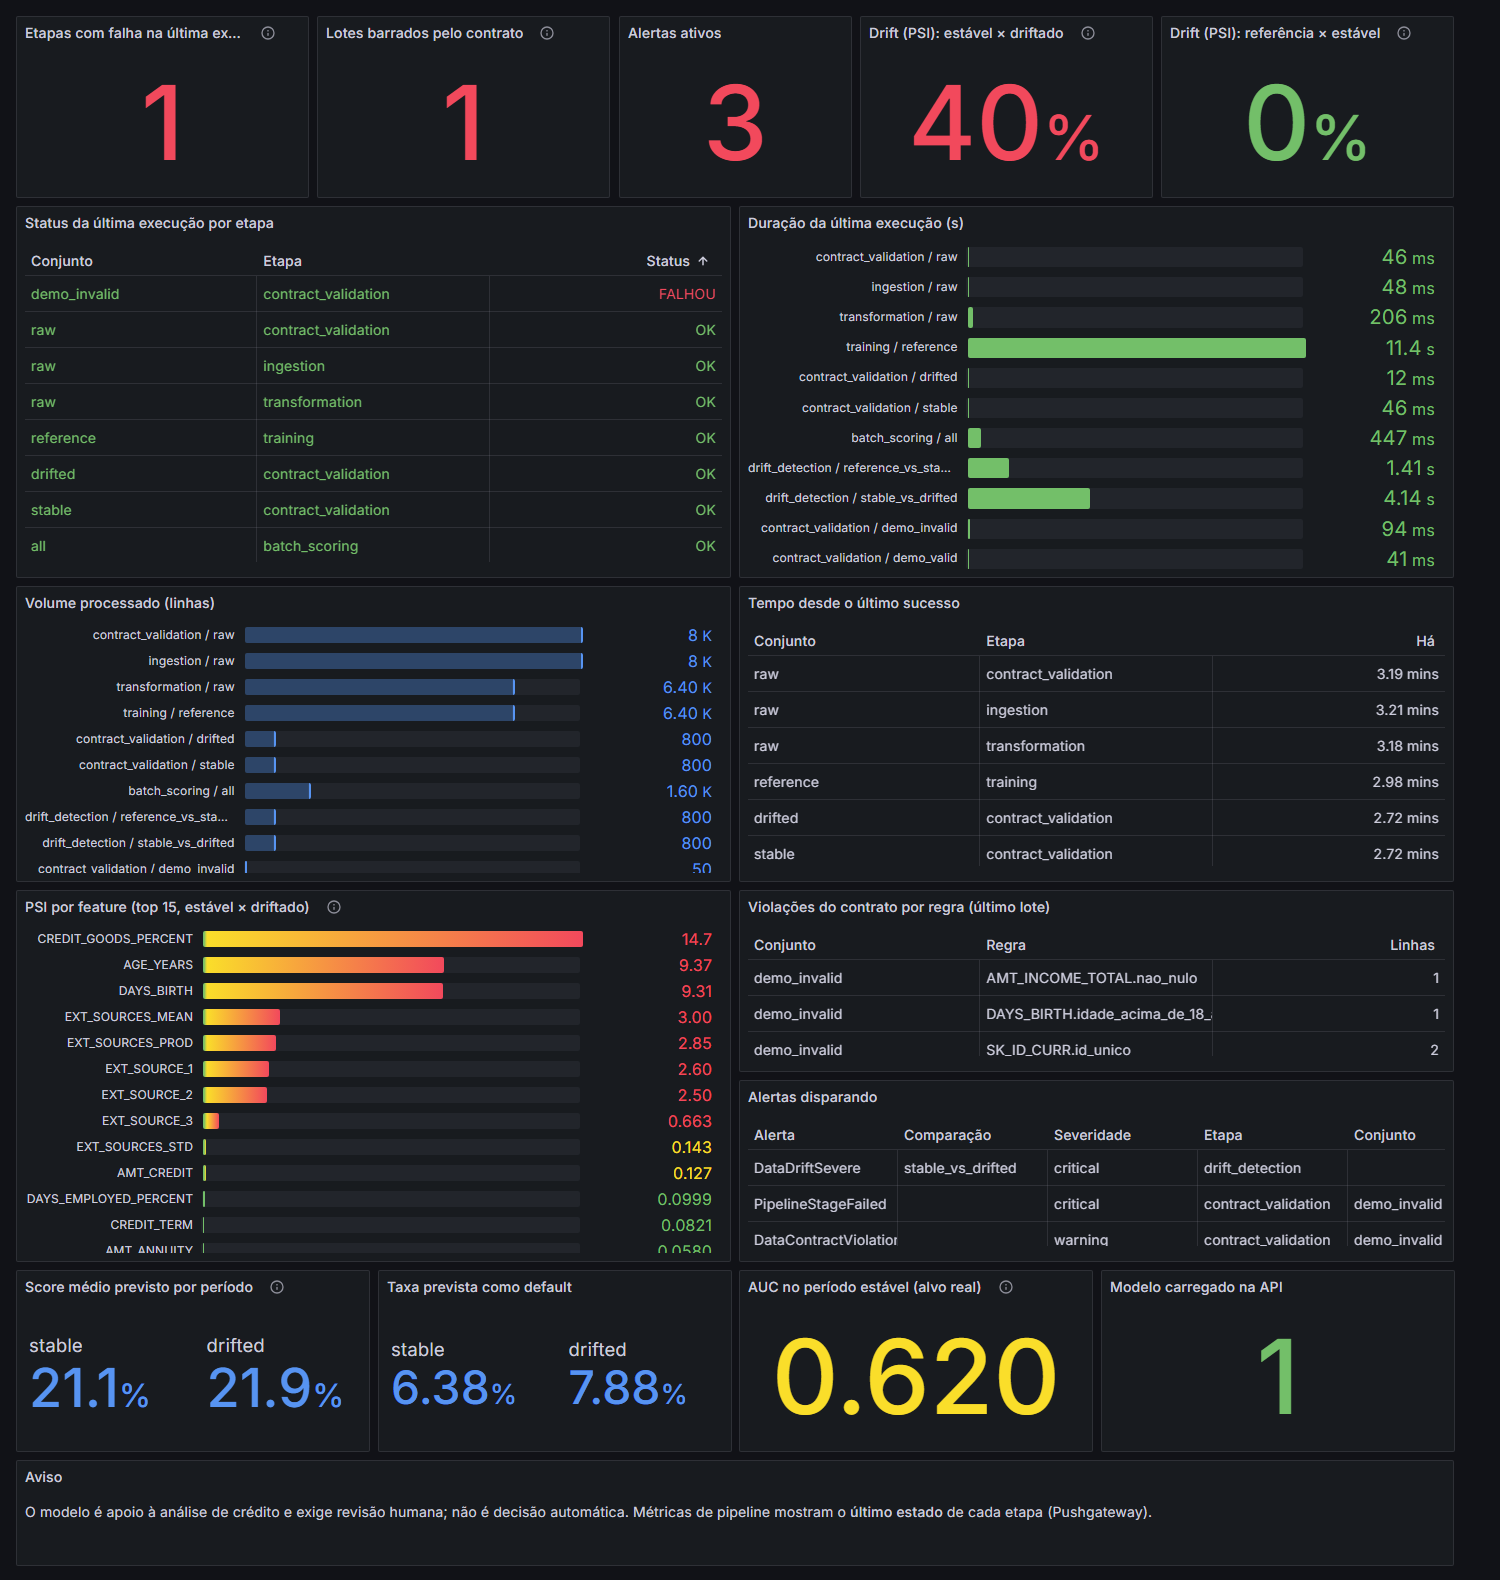
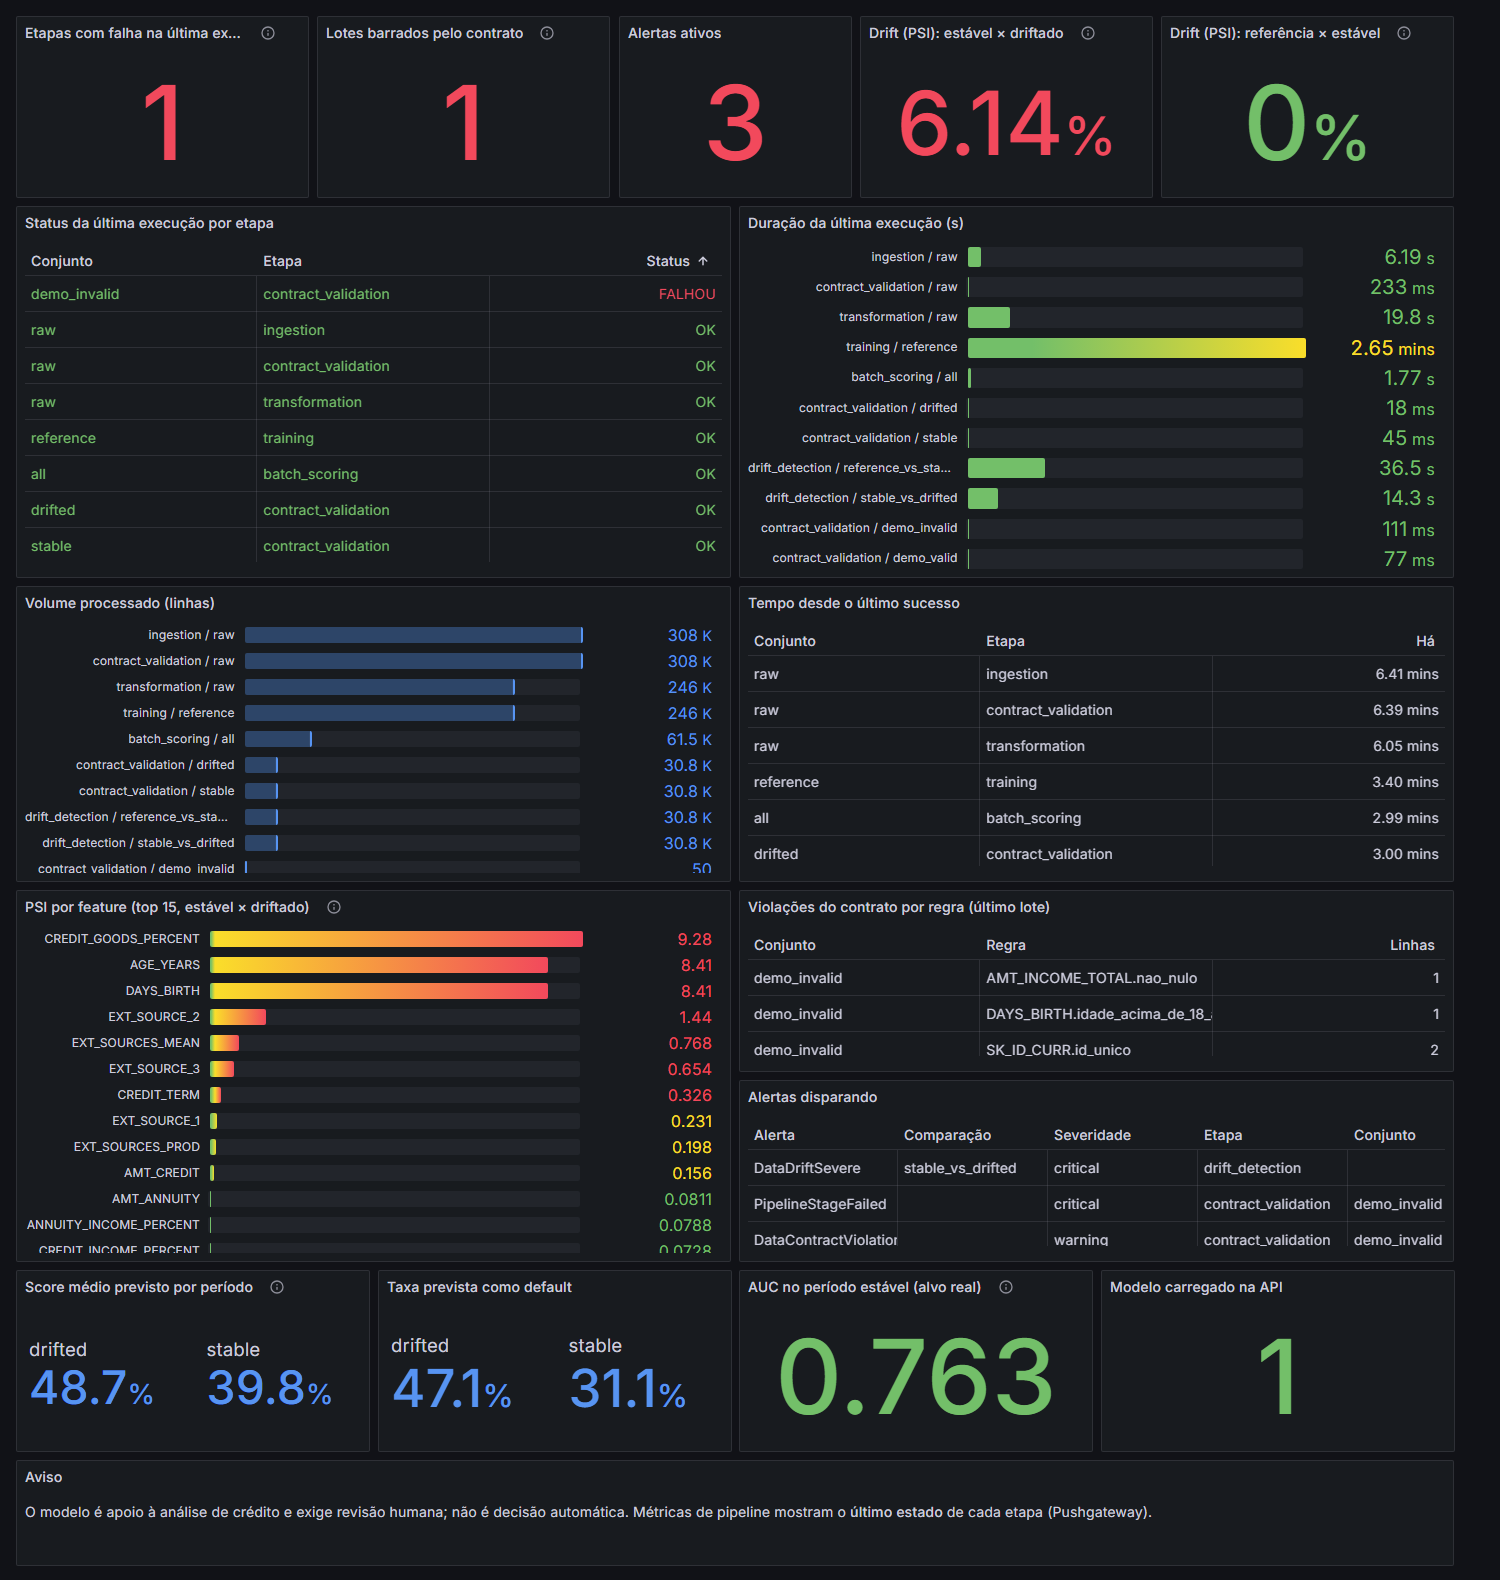
docs: resultados da execução com o CSV real e aviso sobre alvo sintético
Calibração dos limiares com o dado real (baseline 0%, driftado 6,14%), conferência do HTML do Evidently, aviso nos gráficos do período 2 e relatório atualizado com novas capturas.

diff --git a/docs/demo/relatorio-etapa3.html b/docs/demo/relatorio-etapa3.html
@@ -52,11 +52,11 @@
     <div class="grid g4">
       <div class="card"><div class="stat">144<small>testes automáticos passando (antes eram 77)</small></div></div>
       <div class="card"><div class="stat">92%<small>do código de <code>src/</code> coberto pelos testes</small></div></div>
-      <div class="card"><div class="stat">3 de 3<small>bloqueios 🔴 resolvidos</small></div></div>
+      <div class="card"><div class="stat">4 de 4<small>bloqueios resolvidos, inclusive o CSV real</small></div></div>
       <div class="card"><div class="stat">9<small>commits semânticos novos</small></div></div>
     </div>
     <p style="margin-top:16px">Em palavras simples: agora o projeto <b>barra dados ruins antes do modelo</b>, <b>pontua os dados de produção</b>, <b>registra o que cada etapa do pipeline fez</b>, <b>mostra tudo em painéis</b> e <b>dispara alertas</b> quando um lote é barrado, uma etapa falha ou os dados mudam demais (drift).</p>
-    <div class="note"><b>Importante:</b> tudo foi validado com <b>dados sintéticos</b> (inventados, só para teste), porque o CSV real do Kaggle não está no seu computador. Antes de entregar, rode com o CSV real e confira os limiares de alerta.</div>
+    <div class="note"><b>Dado real:</b> depois dos testes com dados sintéticos, rodei o pipeline inteiro com o <b>CSV real do Kaggle</b> (307.511 clientes) nos containers. O contrato aceitou o arquivo, o modelo treinou e os alertas se comportaram como esperado. Os resultados estão na seção 5.</div>
   </section>
 
   <section>
@@ -69,7 +69,9 @@
         <tr><td><b>Predições em lote</b> (Etapa 2)</td><td>Pendente</td><td><code>make predict</code> pontua o período estável e o driftado com o mesmo modelo da API.</td></tr>
         <tr><td>MLflow fora do container</td><td>Não estava instalado no projeto</td><td>Novo serviço <code>drift</code> no Docker reaproveita a imagem do treino.</td></tr>
         <tr><td>Comparar com a referência do treino</td><td>O relatório só comparava período 1 × 2</td><td>Também compara <b>referência × período estável</b>, que não deve mostrar drift.</td></tr>
-        <tr><td>CSV do Kaggle ausente</td><td>Nada rodava de ponta a ponta</td><td><span class="tag part">PARCIAL</span> Validado com dados sintéticos; falta rodar com o CSV real.</td></tr>
+        <tr><td>CSV do Kaggle ausente</td><td>Nada rodava de ponta a ponta</td><td><span class="tag ok">RESOLVIDO</span> CSV real em <code>data/raw/</code> (fora do Git). Pipeline completo rodou com 307.511 linhas.</td></tr>
+        <tr><td>HTML do Evidently só com dados agregados?</td><td>Sem conferência</td><td><span class="tag ok">CONFERIDO</span> Só histogramas por coluna; sem ID nem alvo.</td></tr>
+        <tr><td>Gráficos do período 2 sem aviso de alvo sintético</td><td>Sem aviso</td><td><span class="tag ok">AVISO ADICIONADO</span> Nota no README na seção de drift.</td></tr>
       </tbody>
     </table>
   </section>
@@ -123,15 +125,34 @@
   </section>
 
   <section>
-    <h2>5 · Provas visuais</h2>
-    <p class="dim">Capturas da execução real da stack com dados sintéticos.</p>
+    <h2>5 · Execução com o CSV real</h2>
+    <div class="grid g4">
+      <div class="card"><div class="stat">307.511<small>clientes lidos; contrato aceitou sem falso positivo (0,2 s)</small></div></div>
+      <div class="card"><div class="stat">0,762<small>AUC do XGBoost (validação cruzada); regressão logística 0,748</small></div></div>
+      <div class="card"><div class="stat">0%<small>features com drift em referência × estável (<code>drift_max_psi</code> 0,0012)</small></div></div>
+      <div class="card"><div class="stat">6,14%<small>features com drift em estável × driftado (7 de 114): alerta crítico</small></div></div>
+    </div>
+    <table style="margin-top:14px">
+      <thead><tr><th>Verificação</th><th>Resultado</th></tr></thead>
+      <tbody>
+        <tr><td>Etapas do pipeline (container)</td><td>Ingestão 6 s, contrato 0,2 s, transformação 20 s, treino 2 min 39 s, predição 1,8 s, drift 36 s e 14 s. Todas com sucesso.</td></tr>
+        <tr><td>Predições em lote</td><td>Estável: 30.752 linhas, AUC 0,763, 31% previstos como default. Driftado: 30.751 linhas, 47% previstos como default (score médio de 0,40 para 0,49).</td></tr>
+        <tr><td>Lote real corrompido de propósito</td><td>Barrado. Contagens batem com o que injetei: 200 menores de idade, 150 rendas nulas, 50 créditos negativos, 11 linhas de ID repetido, 10 alvos inválidos.</td></tr>
+        <tr><td>Reprodutibilidade</td><td>O resumo de drift regenerado ficou igual ao versionado (só difere nos últimos dígitos decimais).</td></tr>
+        <tr><td>Alertas ativos no fim</td><td>3: <code>DataDriftSevere</code> (estável × driftado), mais <code>PipelineStageFailed</code> e <code>DataContractViolation</code> do lote inválido da demonstração.</td></tr>
+        <tr><td><code>run_id</code></td><td>Corrigido: no container de drift cada etapa tinha um <code>run_id</code> diferente; agora todas compartilham o mesmo.</td></tr>
+      </tbody>
+    </table>
+
+    <h2>6 · Provas visuais</h2>
+    <p class="dim">Capturas da execução da stack com o dado real.</p>
     <figure><img src="img/grafana-pipeline-health.png" alt="Painel do Grafana com status das etapas, drift por feature e alertas" /><figcaption>Painel de saúde do pipeline: etapas, duração, volume, drift por feature (PSI), violações do contrato, alertas e score do modelo.</figcaption></figure>
     <figure><img src="img/prometheus-alertas.png" alt="Página de alertas do Prometheus com três alertas disparando" /><figcaption>Alertas no Prometheus: 3 disparando (drift severo, etapa com falha e lote barrado) e 5 inativos.</figcaption></figure>
     <figure><img src="img/mlflow-runs.png" alt="MLflow com uma execução por etapa do pipeline" /><figcaption>MLflow: uma execução registrada por etapa do pipeline.</figcaption></figure>
   </section>
 
   <section>
-    <h2>6 · O que isso cobre do enunciado</h2>
+    <h2>7 · O que isso cobre do enunciado</h2>
     <table>
       <thead><tr><th>Item do enunciado</th><th>Situação</th><th>Onde está</th></tr></thead>
       <tbody>
@@ -165,13 +186,10 @@
   </section>
 
   <section>
-    <h2>7 · O que ainda falta ou merece atenção</h2>
+    <h2>8 · O que ainda falta ou merece atenção</h2>
     <ul>
-      <li><b>Rodar com o CSV real do Kaggle.</b> Tudo foi validado com dados sintéticos.</li>
-      <li><b>Conferir os limiares de alerta.</b> Hoje: aviso a 2% e crítico a 5% das features com PSI alto. Com o resumo real versionado, o cenário driftado dá 6,1%, perto do limite. Confirme que referência × estável fica abaixo de 2%.</li>
+      <li><b>Margem do alerta crítico é pequena.</b> O limiar é 5% (6 features); o cenário driftado tem 7. A linha de base ficou em 0%, então o aviso de 2% está seguro. Se mudar a intensidade da simulação, reavalie.</li>
       <li><b>Etapa 4:</b> LGPD, base legal, retenção e análise causal. O arquivo de eventos também precisa entrar no plano de retenção.</li>
-      <li><b>Rotular os gráficos do período 2</b> (<code>reports/*.png</code>) como "alvo sintético".</li>
-      <li><b>Conferir o HTML do Evidently versionado</b> para garantir que só tem agregados.</li>
       <li>Loki (logs em painel) não foi feito; ficou como opcional.</li>
       <li>Os alertas aparecem no Prometheus e no Grafana, mas não são enviados por e-mail ou Slack.</li>
       <li>Os 7 commits antigos fora do padrão continuam no histórico.</li>
@@ -181,7 +199,7 @@
   </section>
 
   <section>
-    <h2>8 · Como rodar</h2>
+    <h2>9 · Como rodar</h2>
 <pre>make install                         # dependências
 docker compose up -d --build         # API, Prometheus, Grafana, MLflow, Pushgateway
 make compose-pipeline                # treino + drift + predição + relatórios nos containers
@@ -195,7 +213,7 @@ make metrics-reset                   # limpa as métricas guardadas no Pushgatew
   </section>
 
   <section>
-    <h2>9 · Commits criados</h2>
+    <h2>10 · Commits criados</h2>
     <table>
       <thead><tr><th>Commit</th><th>O que entrega</th></tr></thead>
       <tbody>
@@ -210,7 +228,7 @@ make metrics-reset                   # limpa as métricas guardadas no Pushgatew
         <tr><td><code>docs</code></td><td>README, checklist, arquitetura e guia dos agentes atualizados</td></tr>
       </tbody>
     </table>
-    <p class="dim">Uma décima mudança, <code>docs(demo)</code>, adiciona este relatório e as capturas de tela.</p>
+    <p class="dim">Mais dois commits: <code>docs(demo)</code> (este relatório e as capturas) e <code>fix</code>/<code>docs</code> com os ajustes feitos depois da execução real (<code>run_id</code> único no container de drift e resultados com o dado real).</p>
   </section>
 
   <footer>Arquivos: <code>docs/demo/relatorio-etapa3.html</code> · <code>docs/adr/0001-observabilidade-pipeline-e-modelo.md</code> · <code>docs/metricas_saude.md</code></footer>

diff --git a/docs/etapa3-diagnostico-e-plano.md b/docs/etapa3-diagnostico-e-plano.md
@@ -146,16 +146,16 @@ Reabrir qualquer item só se a execução real com o CSV contradisser a premissa
 | 🔴 Contrato Pandera vazio | Resolvido | `src/data/contracts.py`: 5 colunas, 6 regras de negócio nomeadas mais nulos, tipos e colunas; barra o lote na ingestão e na predição |
 | 🔴 Lote inválido bloqueado | Resolvido | `make contract-demo` e teste de ponta a ponta (treino não roda se o contrato falha) |
 | 🔴 Predições em lote | Resolvido | `src/drift/predict_batch.py` + `make predict`; AUC só no período estável |
-| 🟠 CSV do Kaggle ausente | **Aberto** | Validado com dados sintéticos (testes e stack Docker); falta rodar com o CSV real |
+| 🟠 CSV do Kaggle ausente | Resolvido | CSV real em `data/raw/` (fora do Git); pipeline completo rodou nos containers com 307.511 linhas |
 | 🟠 `mlflow` fora do Poetry | Resolvido | Serviço `drift` no compose reaproveita a imagem `train` |
 | 🟡 Referência × estável | Resolvido | `make report` gera os dois relatórios; baseline sem drift nos testes |
-| 🟡 Limiar crítico | Resolvido | 2% e 5%; recalibrar com o CSV real |
+| 🟡 Limiar crítico | Resolvido | 2% e 5% confirmados com o dado real: baseline 0%, driftado 6,14% |
 | 🟡 Pushgateway e contadores | Resolvido | Só gauges do último estado |
 | 🟡 Compose, `.gitignore`, portas | Resolvido | Pushgateway em `127.0.0.1`, `alerts.yml` montado, `logs/` e `*.jsonl` ignorados |
 | 🟡 Teste de coerência | Resolvido | `tests/test_monitoring_assets.py` |
 | 🟡 Cenários para o vídeo | Resolvido | `make demo-observability` (o vídeo em si não faz parte desta entrega) |
 | 🟡 Docs desatualizados | Resolvido | README, checklist, `AGENTS.md`, `architecture.md`, `metricas_saude.md` |
 | 🟡 Commits fora do padrão | Mantido | Decisão: não reescrever; novos commits seguem o padrão |
-| 🟡 Gráficos do período 2 sem aviso de alvo sintético | **Aberto** | Rotular em `reports/` e no README antes da entrega final |
-| 🟡 HTML do Evidently só com agregados | **Aberto** | Conferir com o CSV real |
+| 🟡 Gráficos do período 2 sem aviso de alvo sintético | Resolvido | Aviso no README, junto da seção de drift (os PNGs vêm do notebook e não foram alterados) |
+| 🟡 HTML do Evidently só com agregados | Resolvido | Conferido: só bordas e densidades de histograma por coluna; sem `SK_ID_CURR` nem `TARGET` |
 | Etapa 4 (LGPD) e vídeo STAR | **Aberto** | Fora do escopo desta entrega |

diff --git a/README.md b/README.md
@@ -171,6 +171,11 @@ do período 2 é sintético. Os artefatos ficam em `reports/`:
 - `data_drift_summary.csv`: resultados por feature, com KS e PSI para colunas
   numéricas e qui-quadrado para categóricas, estatística, limiar e decisão.
 
+> **Aviso sobre os gráficos `reports/xgboost_*_prod1_vs_prod2.png`.** Eles vêm
+> do notebook de avaliação e comparam desempenho no período 2 usando o alvo
+> **sintético**. Descrevem a regra de simulação, não desempenho real em
+> produção.
+
 `make report` também gera a comparação de sanidade **referência de treino ×
 período 1 estável** (`reports/data_drift_reference_vs_stable.*`), que não deve
 indicar drift e serve de linha de base para calibrar os alertas.
@@ -216,6 +221,11 @@ docker compose up -d --build     # API, Prometheus, Grafana, MLflow, Pushgateway
 make compose-pipeline            # treino + drift + predição + relatórios nos containers
 make demo-observability          # cenários: estável (sem alerta), driftado, lote inválido
 ```
+
+Execução de referência com o dado real (307.511 linhas): contrato aceitou o
+arquivo; AUC de validação cruzada 0,762 (XGBoost); referência × estável sem
+drift (`drift_share` 0%); estável × driftado com 7 de 114 features em PSI ≥ 0,25
+(6,14%), o que dispara o alerta crítico `DataDriftSevere`.
 
 Sem Docker, rode `PUSHGATEWAY_URL=http://localhost:9091 make pipeline`
 (executa tudo sob um único `run_id`). Sem `PUSHGATEWAY_URL` ou

diff --git a/docs/metricas_saude.md b/docs/metricas_saude.md
@@ -123,12 +123,14 @@ Os limiares de drift ficam em `config/config.yaml` (`observability.drift_*`) e
 um teste garante que a regra e o config permanecem iguais. A mesma lógica gera
 o evento `alert_raised` no log.
 
-**Calibração.** Com o resumo de drift versionado, PSI ≥ 0,25 ocorre em 7 de 114
-features numéricas (6,1%), logo o cenário driftado dispara o alerta crítico.
-Os limiares são pontos de partida e devem ser conferidos com a execução real
-de `reference_vs_stable`, que precisa ficar abaixo do aviso. Alertar por KS foi
-descartado: com dezenas de milhares de linhas o teste marca diferenças
-irrelevantes.
+**Calibração com o dado real** (Home Credit, 307.511 linhas; execução de
+2026-10-25): `reference_vs_stable` deu `drift_share` 0% e `drift_max_psi`
+0,0012, muito abaixo do aviso de 2% (zero falsos positivos). `stable_vs_drifted`
+deu 7 de 114 features com PSI ≥ 0,25 (6,14%) e `drift_max_psi` 9,28, acima do
+crítico de 5%. A margem do crítico é de uma feature (6 já bastam; há 7), e
+`AGE_YEARS` e `DAYS_BIRTH` contam a mesma informação duas vezes. Se a simulação
+mudar de intensidade, reavalie. Alertar por KS foi descartado: com dezenas de
+milhares de linhas o teste marca diferenças irrelevantes (17 de 114 features).
 
 ## Limitações
 

diff --git a/docs/adr/0001-observabilidade-pipeline-e-modelo.md b/docs/adr/0001-observabilidade-pipeline-e-modelo.md
@@ -338,7 +338,10 @@ Todas as fases F0 a F6 foram entregues. Diferenças em relação ao plano:
 alertas, dashboards e compose, e pipeline de ponta a ponta com dados
 sintéticos); `promtool check rules/config`; stack Docker real (API, Prometheus,
 Grafana, MLflow, Pushgateway) com `make compose-pipeline` e o cenário de lote
-inválido. Com dados sintéticos, a comparação referência × estável ficou sem
-drift (`drift_share` 0) e a estável × driftada disparou `DataDriftSevere`
-(`drift_share` 0,40). **Não foi executado com o CSV real do Kaggle**, então os
-limiares continuam sendo pontos de partida.
+inválido, primeiro com dados sintéticos e depois com o **CSV real do Kaggle**
+(307.511 linhas). No dado real: o contrato aceitou o arquivo sem falso positivo;
+treino com AUC de validação cruzada 0,762 (XGBoost) e 0,748 (regressão
+logística); AUC 0,763 no período estável; `reference_vs_stable` com
+`drift_share` 0% e `drift_max_psi` 0,0012 (sem alerta); `stable_vs_drifted` com
+6,14% (7 de 114 features) e alerta `DataDriftSevere`. Os limiares de 2% e 5%
+foram mantidos: a linha de base ficou ordens de grandeza abaixo do aviso.
